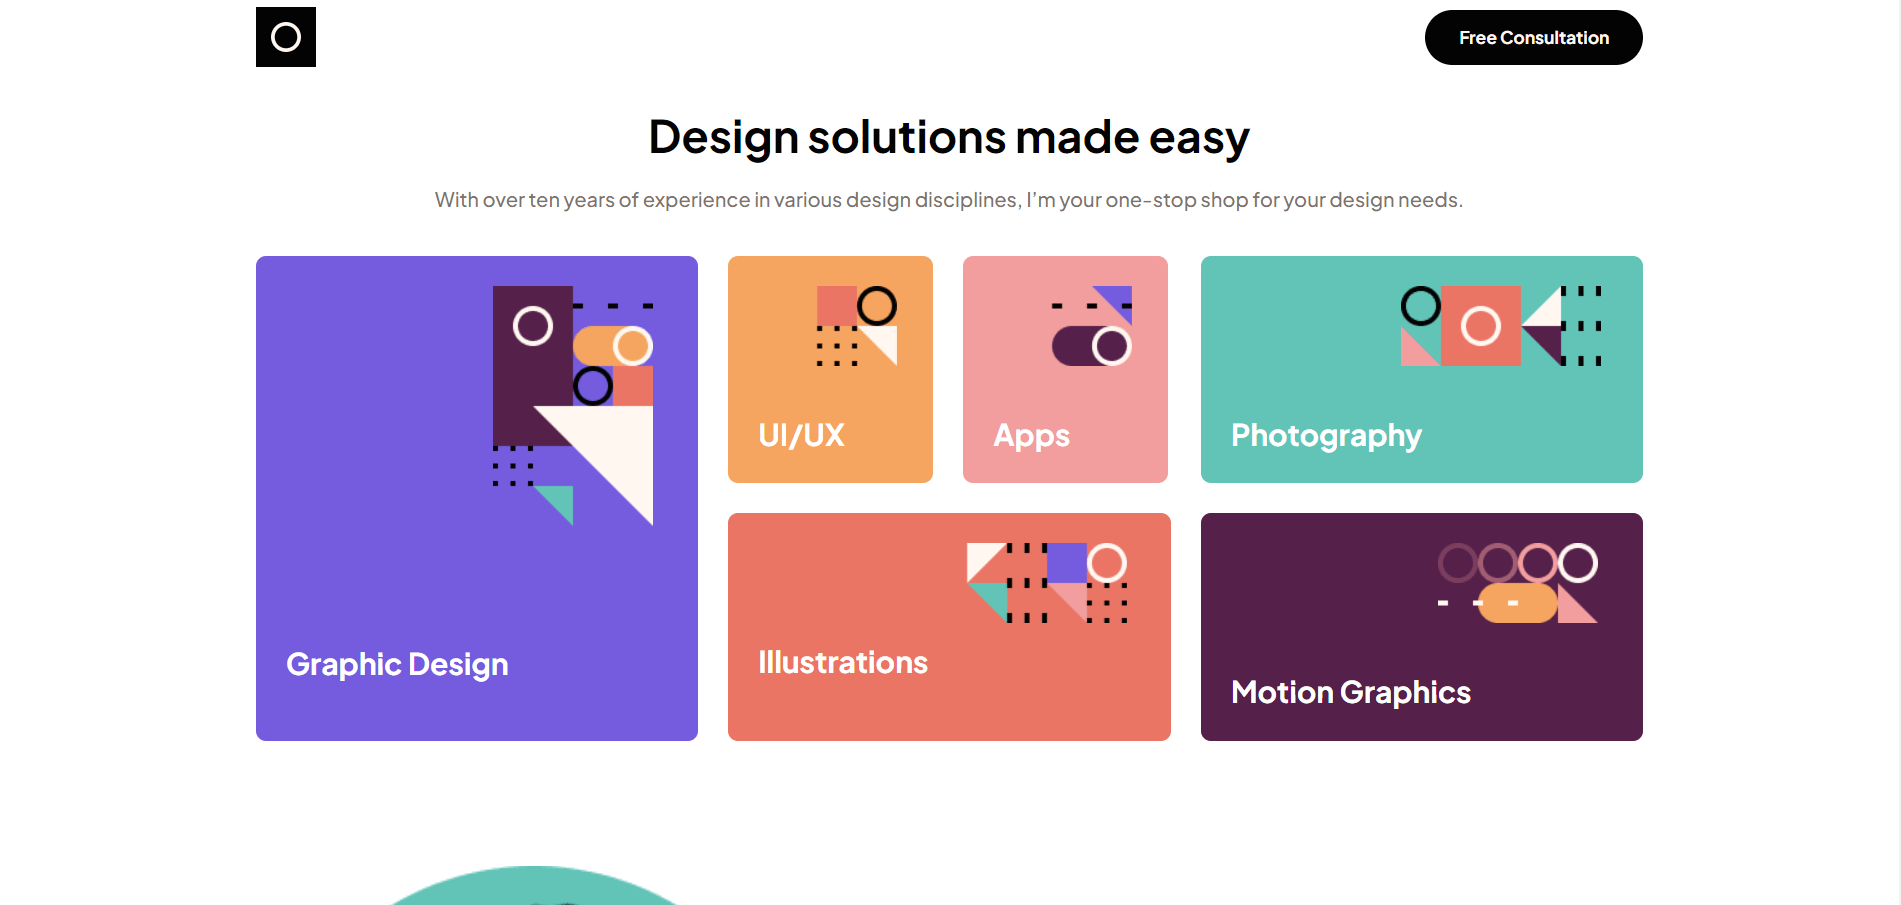
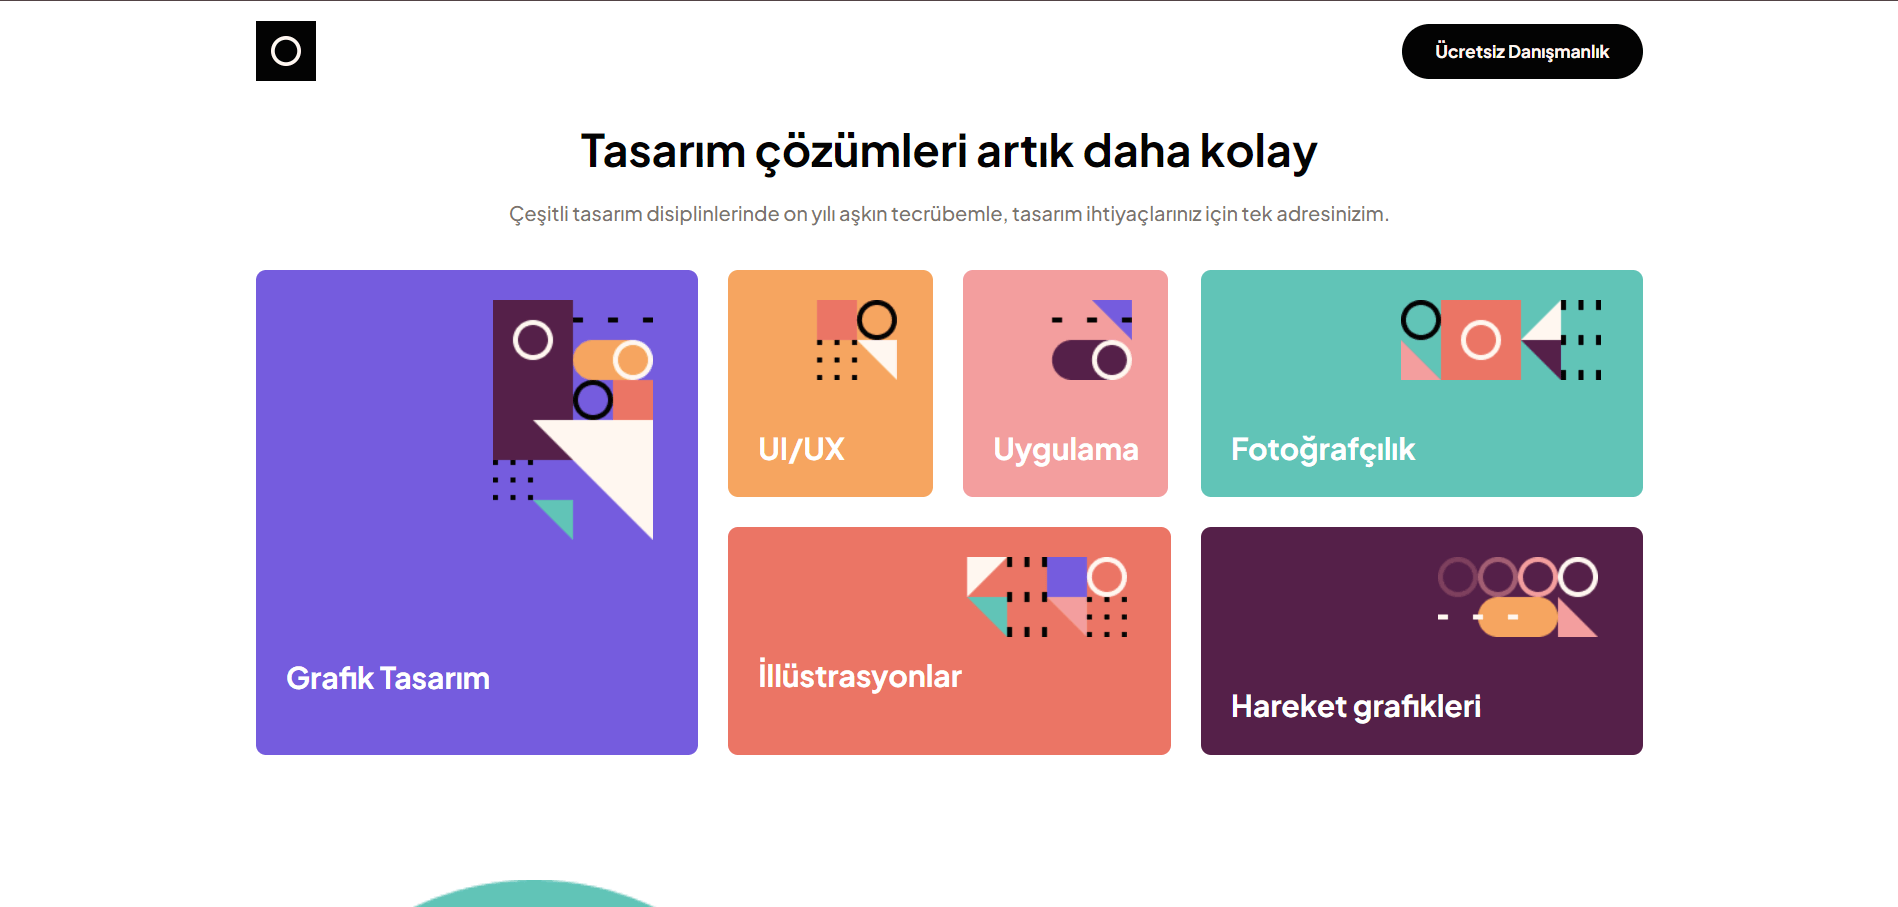
proje ekleme

diff --git a/single_page_design/index.html b/single_page_design/index.html
@@ -7,18 +7,18 @@
     <link rel="preconnect" href="https://fonts.googleapis.com">
     <link rel="preconnect" href="https://fonts.gstatic.com" crossorigin>
     <link href="https://fonts.googleapis.com/css2?family=Plus+Jakarta+Sans:ital,wght@0,200..800;1,200..800&display=swap" rel="stylesheet">
-    <link rel="stylesheet" href="/single_page_design/assets/css/single_page_dsign.css">
+    <link rel="stylesheet" href="./assets/css/single_page_dsign.css">
 </head>
 <body>
     <div class="container">
         <header>
-            <img src="/single_page_design/assets/img/single_page_logo.svg" alt="Main Logo">
-            <a href="#">Free Consultation</a>
+            <img src="./assets/img/single_page_logo.svg" alt="Main Logo">
+            <a href="#">Ücretsiz Danışmanlık</a>
         </header>
 
         <div class="hero_text">
-            <h1>Design solutions made easy</h1>
-            <p>With over ten years of experience in various design disciplines, I’m your one-stop shop for your design needs.</p>
+            <h1>Tasarım çözümleri artık daha kolay</h1>
+            <p>Çeşitli tasarım disiplinlerinde on yılı aşkın tecrübemle, tasarım ihtiyaçlarınız için tek adresinizim.</p>
         </div>
 
         <div class="skills_container">
@@ -26,24 +26,24 @@
         <div class="div">
 
             <div class="graphic_design">
-                <img src="/single_page_design/assets/img/graphic_design.png" alt="">
-                <h4>Graphic Design</h4>
+                <img src="./assets/img/graphic_design.png" alt="">
+                <h4>Grafik Tasarım</h4>
             </div>
 
             <div class="services_middle">
                 <div class="ui_ux">
-                    <img src="/single_page_design/assets/img/ui_ux.png" alt="">
+                    <img src="./assets/img/ui_ux.png" alt="">
                     <h4>UI/UX</h4>
                 </div>
     
                 <div class="apps">
-                    <img src="/single_page_design/assets/img/Apps.png" alt="">
-                    <h4>Apps</h4>
+                    <img src="./assets/img/Apps.png" alt="">
+                    <h4>Uygulama</h4>
                 </div>
     
                 <div class="Illustrations">
-                    <img src="/single_page_design/assets/img/Illustrations.png" alt="">
-                    <h4>Illustrations</h4>
+                    <img src="./assets/img/Illustrations.png" alt="">
+                    <h4>İllüstrasyonlar</h4>
                 </div>
             </div>
 
@@ -51,13 +51,13 @@
 
             <div class="div1">
                 <div class="photography">
-                    <img src="/single_page_design/assets/img/Photography.png" alt="">
-                    <h4>Photography</h4>
+                    <img src="./assets/img/Photography.png" alt="">
+                    <h4>Fotoğrafçılık</h4>
                 </div>
 
                 <div class="motion_graphics">
-                    <img src="/single_page_design/assets/img/Motion_Graphics.png" alt="">
-                    <h4>Motion Graphics</h4>
+                    <img src="./assets/img/Motion_Graphics.png" alt="">
+                    <h4>Hareket grafikleri</h4>
                 </div>            
             </div>
 
@@ -65,27 +65,27 @@
 
         <div class="about">
             <div class="about_images">
-                <img src="/single_page_design/assets/img/about.png" alt="">
+                <img src="./assets/img/about.png" alt="">
             </div>
             <div class="about_text">
-                <h3>I’m Amy, and I’d love to work on your next project</h3>
-                <p>I love working with others to create beautiful design solutions. I’ve designed everything from brand illustrations to complete mobile apps. I’m also handy with a camera!</p>
-                <a href="#">Free Consultation</a>
+                <h3>Ben Amy ve bir sonraki projenizde çalışmayı çok isterim</h3>
+                <p>Güzel tasarım çözümleri yaratmak için başkalarıyla birlikte çalışmayı seviyorum. Marka illüstrasyonlarından eksiksiz mobil uygulamalara kadar her şeyi tasarladım. Ayrıca kamera konusunda da becerikliyimdir!</p>
+                <a href="#">Ücretsiz Danışmanlık</a>
             </div>
         </div>
 
         <div class="about_us_card">
             <div class="about_us_card_text">
-                <h3>Book a call with me</h3>
-                <p>I’d love to have a chat to see how I can help you. The best first step is for us to discuss your project during a free consultation. Then we can move forward from there.</p>
+                <h3>Benimle bir görüşme rezervasyonu yapın</h3>
+                <p>Size nasıl yardımcı olabileceğimi görmek için sohbet etmeyi çok isterim. Bizim için en iyi ilk adım, ücretsiz danışmanlık sırasında projenizi tartışmamızdır. Daha sonra oradan ilerleyebiliriz.</p>
             </div>
             
-            <a href="#">Free Consultation</a>
+            <a href="#">Ücretsiz Danışmanlık</a>
         </div>
 
         <footer>
-            <img src="/single_page_design/assets/img/single_page_logo.svg" alt="Main Logo">
-            <a href="#">Free Consultation</a>
+            <img src="./assets/img/single_page_logo.svg" alt="Main Logo">
+            <a href="#">Ücretsiz Danışmanlık</a>
         </footer>
 
     </div>

diff --git a/single_page_design/assets/css/single_page_dsign.css b/single_page_design/assets/css/single_page_dsign.css
@@ -214,7 +214,6 @@
 
 
 .about_text a {
-    width: 176px;
     text-decoration: none;
     color: #FFF7F0;
     background-color: #EB7565;
@@ -222,7 +221,9 @@
     font-weight: 700;
     font-size: 14px;
     line-height: 28px;
-    padding: 8px 27px;
+    padding: 16px 45px;
+    align-items: center;
+    text-align: center;
 }
 
   /* about end  */
@@ -264,7 +265,6 @@
   }
 
 .about_us_card a {
-    width: 176px;
     text-decoration: none;
     color: #FFF7F0;
     background-color: #EB7565;
@@ -272,7 +272,7 @@
     font-weight: 700;
     font-size: 14px;
     line-height: 28px;
-    padding: 8px 27px;
+    padding: 16px 45px;
 }
 
 
